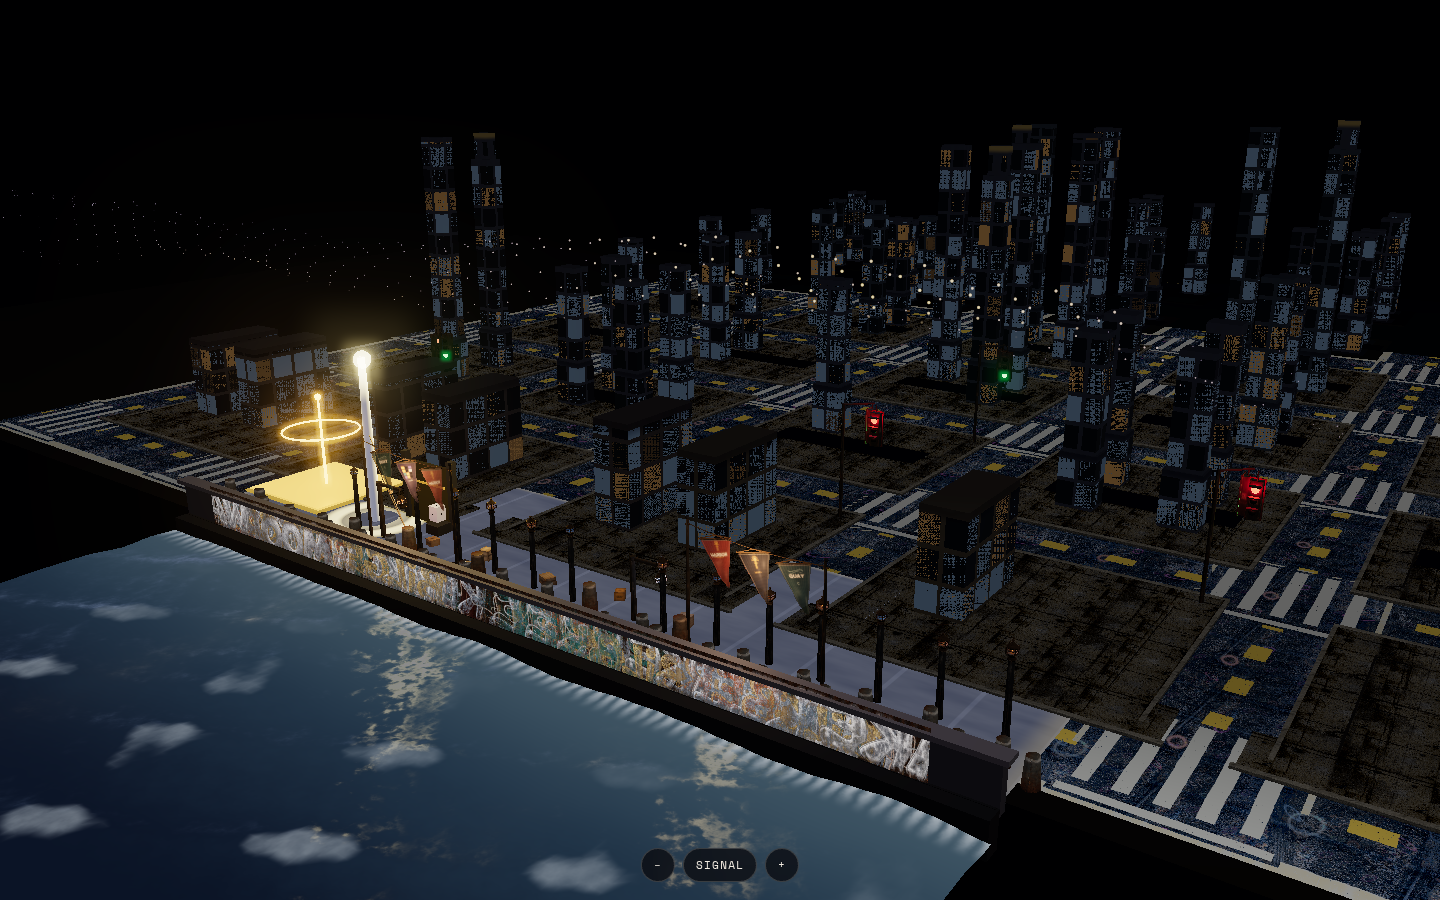
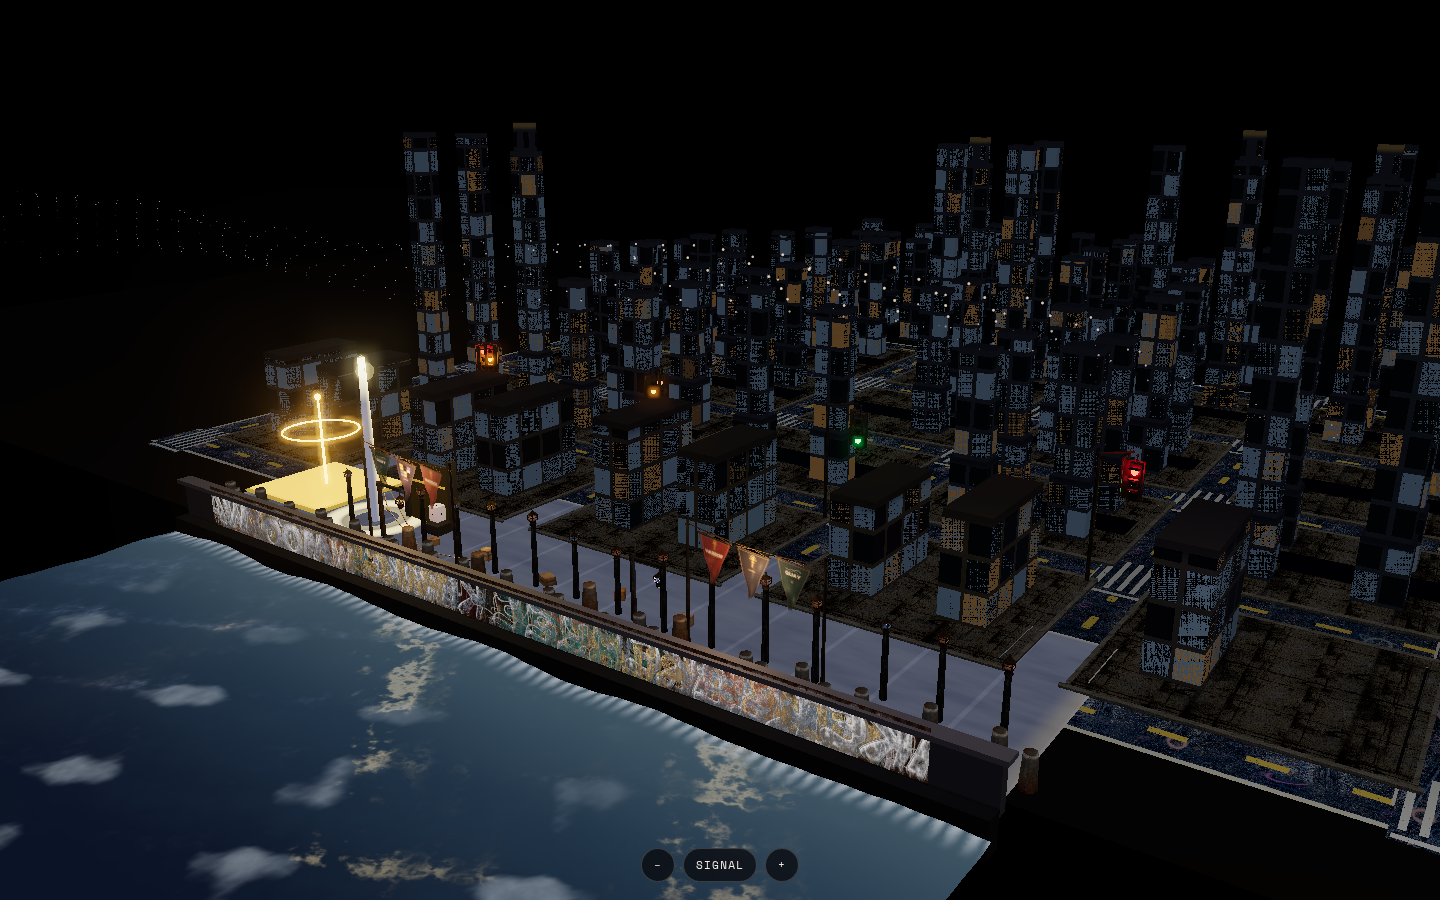
Harbor: widen asphalt inside the main street gap
Restore STREET_W to 1.65 so building faces stay on the main module. Shrink sidewalks from 0.50 to 0.22, which opens the carriageway from 0.65 to about 1.21. The quay-edge strip is 0.30 and stays inside that gap. The massing mask uses the same outer width and sidewalk split.

diff --git a/harbor.html b/harbor.html
@@ -624,13 +624,14 @@ float fbm(vec2 p){
 // ——— Urban grammar: streets → blocks → lots → buildings (pass 3 + irregular lots p4) ———
 // Hierarchy refs: CityEngine / StreetGen / Purdue procedural; Three.js CityGenerator + SidewalkGenerator;
 // arXiv:1801.05741; mysimulator procedural buildings. Negative space = asphalt corridors.
-// Main-street module. Sidewalks sit inside the street gap, so the lane you
-// see is STREET_W − 2×SIDEWALK_W (was 1.65 − 1.00 = 0.65, narrower than an alley).
-// Carriageway is now ~2.14; the quay-edge walk (north face of the first row) is wider still.
-// Atlas sheets are unchanged — these constants only scale the meshes.
-const STREET_W = 3.70;
-const SIDEWALK_W = 0.78;
-const QUAY_WALK_W = 1.25;
+// Outer module matches main: STREET_W 1.65 is the gap between building faces.
+// Sidewalks sit inside that gap, so the lane you see is STREET_W − 2×SIDEWALK_W.
+// Main left a 0.65 carriageway (sidewalks 0.50). Thinner sidewalks open the
+// asphalt to ~1.21 without moving the blocks. The quay-edge strip stays inside
+// the same gap. Atlas sheets are unchanged — these constants only scale meshes.
+const STREET_W = 1.65;
+const SIDEWALK_W = 0.22;
+const QUAY_WALK_W = 0.30;
 const CURB_H = 0.09;
 const BLOCK_W = 5.0;   // lot area width (X) inside sidewalks
 const BLOCK_D = 4.4;   // lot area depth (Z)
@@ -947,7 +948,7 @@ for (let r = 0; r <= GRID_ROWS; r++) {
     if (roadN < ROAD_MAX) {
       dummyR.position.set(x, 0.028, z);
       dummyR.rotation.set(-Math.PI / 2, 0, Math.PI / 2);
-      dummyR.scale.set(STREET_W * 0.92, STREET_W * 0.92, 1);
+      dummyR.scale.set(2.15, STREET_W * 0.92, 1);
       dummyR.updateMatrix();
       roadKindAttr.setX(roadN, 1);
       roads.setMatrixAt(roadN++, dummyR.matrix);
@@ -2541,6 +2542,7 @@ window.__harborStrands = {
 const massingSeed0 = parseMassingSeed(params.get('seed'));
 const districtMassing = createDistrictMassing(THREE, {
   streetW: STREET_W,
+  sidewalkW: SIDEWALK_W,
   blockW: BLOCK_W,
   blockD: BLOCK_D,
   setback: SETBACK,
@@ -8658,7 +8660,7 @@ function fillTourChecklist() {
     '• [x] Atlas path: skip edgeKill/edgeFade→wallCol (tan side-wall panes after cool127)',
     '• [x] Distance LOD impostor (lodFlat mix to flat back atlas 16–36u)',
     '• [x] Night-street gait: walk 0.50 / sprint 0.88 + head-bob',
-    '• [x] Street widths: carriageway ~2.14 · SIDEWALK_W 0.78 · QUAY_WALK_W 1.25 · STREET_W 3.70',
+    '• [x] Street widths: carriageway ~1.21 · SIDEWALK_W 0.22 · QUAY_WALK_W 0.30 · STREET_W 1.65',
     '• [x] Collision chest = EYE_H*0.72 (was stale 1.15)',
     '• [x] Face-map default + V walk unchanged',
     '',

diff --git a/noctuary/district-massing.js b/noctuary/district-massing.js
@@ -161,7 +161,8 @@ function blockRect(bx, bz, g) {
 }
 
 function resolveGrammar(options) {
-  const streetW = options.streetW ?? 3.70;
+  const streetW = options.streetW ?? 1.65;
+  const sidewalkW = options.sidewalkW ?? 0.22;
   const blockW = options.blockW ?? 5;
   const blockD = options.blockD ?? 4.4;
   const cols = options.cols ?? 5;
@@ -169,6 +170,7 @@ function resolveGrammar(options) {
   const originalRows = options.originalRows ?? 4;
   return {
     streetW,
+    sidewalkW,
     blockW,
     blockD,
     setback: options.setback ?? 0.32,
@@ -566,6 +568,8 @@ export function planDistrict(options = {}) {
     maskGap: MASK_GAP,
     podiumH: PODIUM_H,
     streetW: g.streetW,
+    sidewalkW: g.sidewalkW,
+    carriageway: g.streetW - 2 * g.sidewalkW,
     alleyW: g.alleyW,
     cols: g.cols,
     rows: g.rows,

diff --git a/noctuary-drills/A04-generate.md b/noctuary-drills/A04-generate.md
@@ -8,28 +8,28 @@ Hand-placed Harbor blocks (`placeBuilding` over the 5×4 lot roll) do not scale.
 ## What was practiced
 
 - **Height field.** Value noise + fbm. A slow octave sets the district ridge; a faster octave roughens lot to lot. The field is shifted by a seed, so two seeds are two districts. Quay row stays low. A ridge through the middle blocks becomes Signal towers. Hinterland stays shorter.
-- **Corridor mask.** Streets use the same cell as Harbor (`BLOCK + STREET`). The primary hard mask is the full street module, `STREET_W` 3.70. Alleys stay narrower: every block cuts a north–south alley 1.16 wide, and every block inland of the quay also cuts a cross alley. Parcels sit behind a 0.52 inset, and each footprint must keep a 0.14 gap from every street and alley or it is shrunk until it does. Courts (low occupancy noise) stay empty. Dark alley ribbons are drawn with the massing pass, inside the block, so the cut reads even on the existing lot pads. A check recomputes the street bands, asserts an 8 cm clearance, and asserts the primary mask and the visible carriageway are both clearly wider than an alley.
+- **Corridor mask.** Streets use the same cell as Harbor (`BLOCK + STREET`). The outer hard mask is the main street module, `STREET_W` 1.65 — the gap between building faces, not a wider district. Inside that gap the sidewalks are 0.22, so the asphalt carriageway is about 1.21 (`STREET_W − 2×SIDEWALK_W`), wider than main’s 0.65 lane and wider than the 1.16 alley. Every block cuts a north–south alley 1.16 wide. Every block inland of the quay also cuts a cross alley. Parcels sit behind a 0.52 inset, and each footprint must keep a 0.14 gap from every street and alley or it is shrunk until it does. Courts (low occupancy noise) stay empty. Dark alley ribbons are drawn with the massing pass, inside the block, so the cut reads even on the existing lot pads. A check recomputes the street bands, asserts an 8 cm clearance, and asserts the outer module is still 1.65 while the carriageway is the wider share of that gap.
 - **Sliced mass.** A stack is a fixed 1.48 podium, then a shaft at 70% of that footprint. A crown is allowed only on the tallest lot of a Signal ridge block (not Quay, not the hinterland belt), one crown per block, and the crown is 72% of the shaft so it cannot spill past it. The hard mask runs again on every slice.
 
 The mass is one `InstancedMesh` (`harbor-district-mass`) with a night façade shader: concrete body, 0.76 m fenestra cells, dark mullions, cool glass, rare warm panes. Extension streets past the hand grid are plain night asphalt in this module. They do not bind `uStreetAtlas`.
 
-## Wider corridors
+## Wider asphalt, same block spacing
 
-Sidewalks sit inside the street gap, so the lane you see is `STREET_W − 2×SIDEWALK_W`. The old module was 1.65 with 0.50 sidewalks, which left a 0.65 carriageway — narrower than the 1.16 alley. Primary streets now read as main streets. Alleys stay the narrow cut.
+The street module stays the main gap: `STREET_W` 1.65. Building faces do not move. Sidewalks sit inside that gap, so the lane you see is `STREET_W − 2×SIDEWALK_W`. Main used 0.50 sidewalks and left a 0.65 carriageway, narrower than the 1.16 alley. The sidewalks are now 0.22, which opens the asphalt to about 1.21. Alleys stay the narrow cut inside the block.
 
-| Lane | Width |
-|---|---|
-| `STREET_W` (hard mask and asphalt module) | 3.70 |
-| `SIDEWALK_W` | 0.78 |
-| Carriageway (`STREET_W − 2×SIDEWALK_W`) | ~2.14 |
-| `QUAY_WALK_W` (north walk of the quay row only) | 1.25 |
-| Alley | 1.16 |
+| Lane | Main | Now |
+|---|---|---|
+| `STREET_W` (outer gap, hard mask) | 1.65 | 1.65 |
+| `SIDEWALK_W` | 0.50 | 0.22 |
+| Carriageway (`STREET_W − 2×SIDEWALK_W`) | 0.65 | ~1.21 |
+| Quay-edge walk (north face of the first row) | 0.50 | 0.30 |
+| Alley | 1.16 | 1.16 |
 
-The same constants space the hand-placed blocks, sidewalks, curbs, and crosswalks, and they are passed into the generator, so the mask and the asphalt agree. The quay-edge walk is the raised sidewalk on the water side of the first row. Atlas cell sampling is unchanged; only the mesh scale moved. At the default camera the first internal carriageway is about 15 px across before and about 47 px after; the quay walk is about 16 px before and about 40 px after.
+The quay-edge walk is a strip on the water side of the first row. It stays inside the 1.65 gap, so it does not push the promenade or the buildings. Hand-placed asphalt, sidewalks, curbs, and crosswalks use these constants, and the generator mask uses the same outer `STREET_W` and sidewalk split. Atlas cell sampling is unchanged.
 
 ## Toggle
 
-The generator does not allocate meshes until it is turned on. Turning it off disposes those geometries and materials, then shows the hand-placed mesh again. The two cities are never both visible. The wider streets stay in both modes, because they are the street module, not a massing-only overlay.
+The generator does not allocate meshes until it is turned on. Turning it off disposes those geometries and materials, then shows the hand-placed mesh again. The two cities are never both visible. The thinner sidewalks and wider asphalt stay in both modes, because they are the street module, not a massing-only overlay.
 
 | Control | Effect |
 |---|---|
@@ -49,11 +49,11 @@ node noctuary/district-massing.check.mjs
 
 ## Harbor view
 
-Same camera. Left is the previous 0.65 carriageway; right is the 2.14 carriageway with the 1.25 quay-edge walk. Alleys stay the narrow cut inside the blocks.
+Same camera and the same building spacing. Left is main’s split (sidewalk 0.50, carriageway 0.65). Right keeps that outer gap and gives the lane the width: sidewalk 0.22, carriageway about 1.21, quay-edge strip 0.30.
 
 ![Harbor streets before and after the wider module](a04-harbor-streets-before-after.png)
 
-Seed `A04`, massing on. Primary streets stay open and wider than the alleys; the seed bar is the only added chrome:
+Seed `A04`, massing on. The asphalt ribbon is the wide part of the same gap; the seed bar is the only added chrome:
 
 ![Harbor seed A04 with wider corridors](a04-harbor-massing-seed-a04.png)
 
